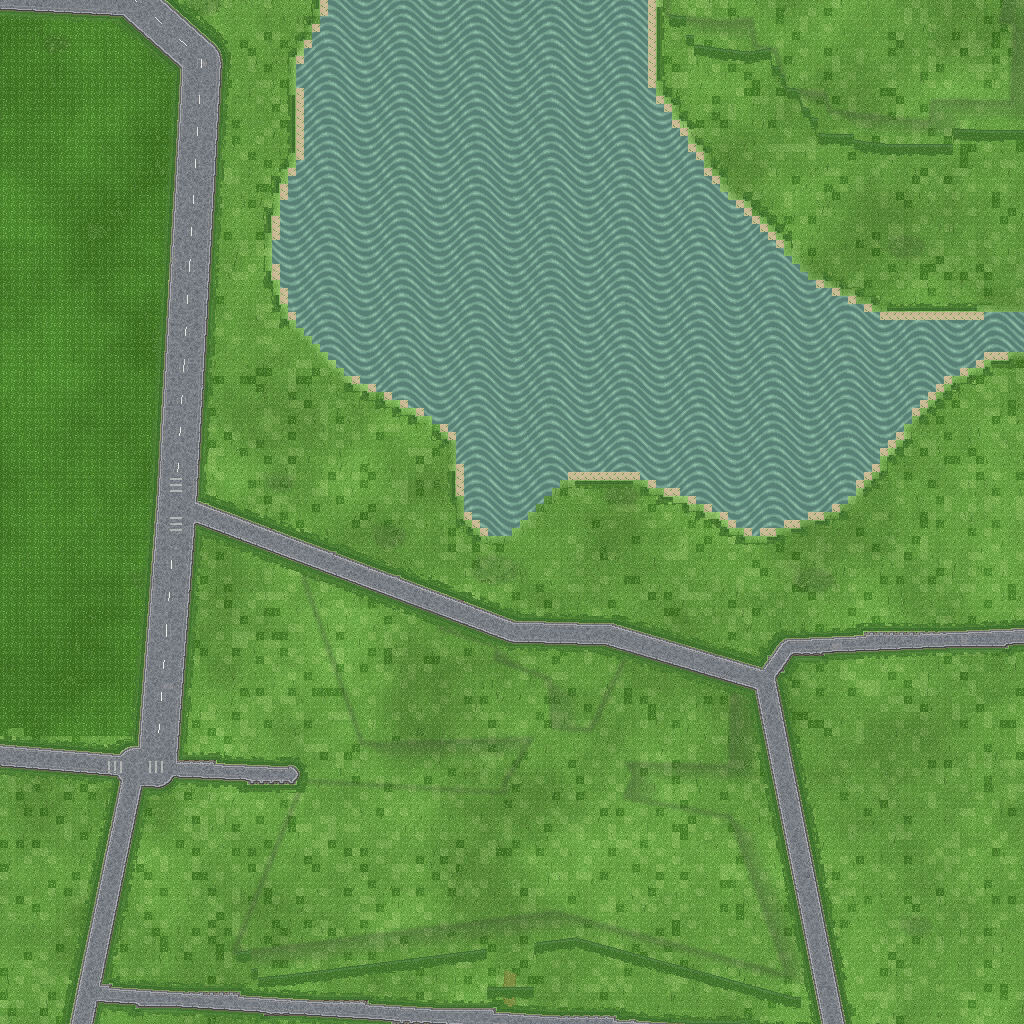
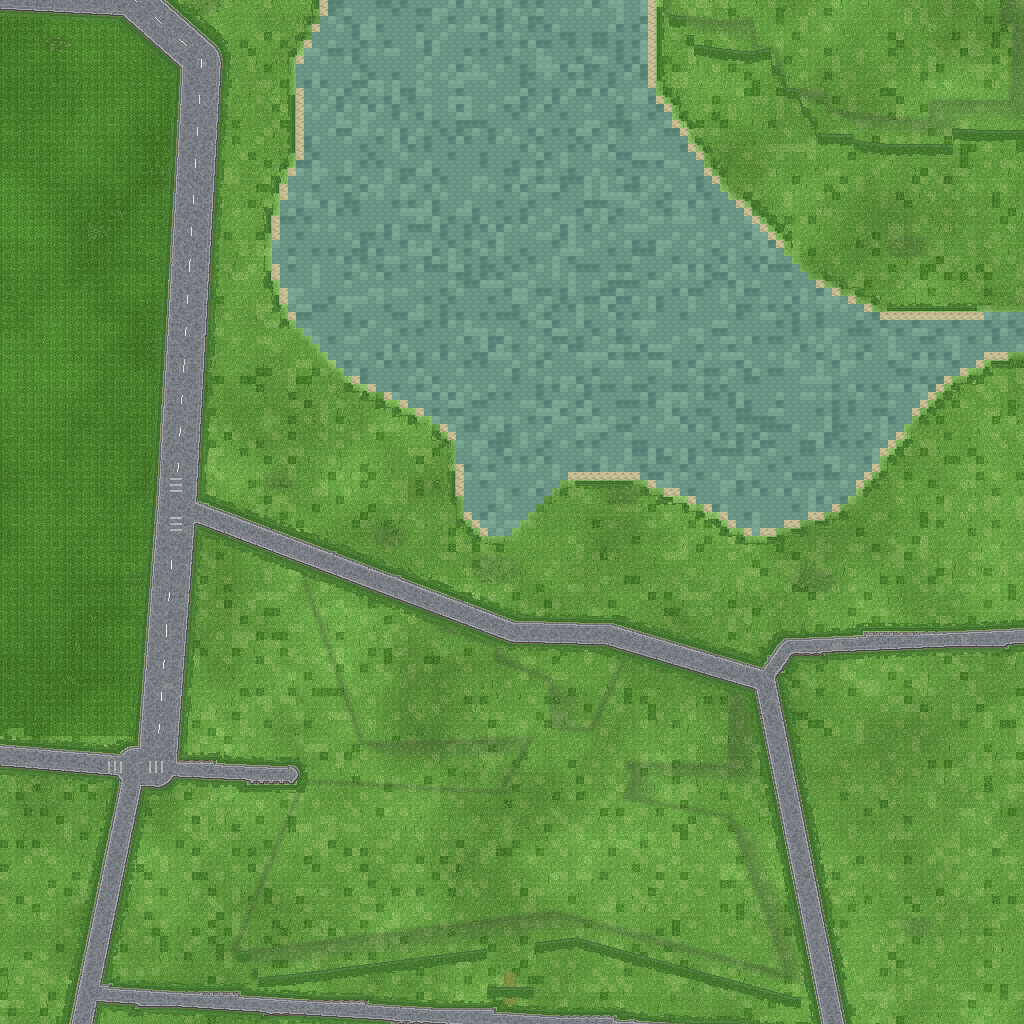
地图：水面退回原始色块，撤掉波纹重排
上一版把湖水的 4 档精确色按横向波纹重新排布（色值集合不变、water_mask
逐像素等价），实机看下来 8px 棋盘被换成一片横纹噪声，比原来的色块更假。

- 删掉 _repaint_water / WATER_ORDER / WATER_LEVELS / WATER_WAVE
- 改为水像素无条件保护：水岸羽化本来会把 2~3px 亮度增量溢进湖里，
  现在 apply 末尾按 water_mask 把原值合回去（899267 个水像素 diff 全 0）
- 草地/路面参数一字未改，28 块里只有 10 块含水的有字节变化

要换水面观感得从 bake_channels / bake_road_edge 的配色改起，
不能事后重排 —— 那 4 个色值同时是判水依据。

Changed region(s): [[0.2812, 0.0, 1.0, 0.5312]]

diff --git a/tools/bake_ground_texture.py b/tools/bake_ground_texture.py
@@ -31,7 +31,6 @@
 import os
 import sys
 from functools import lru_cache
-from math import sin, tau as TAU
 
 from PIL import Image, ImageChops, ImageDraw, ImageFilter, ImageFont, ImageMath, ImageStat
 
@@ -196,46 +195,11 @@ def _nz(mask):
     return D._nz(mask)
 
 
-# ---- C. 水面 ---------------------------------------------------------
-# 湖水是 4 种精确色画出来的 8px 马赛克（bake_channels 认水、道具候选都靠这 4 个值）。
-# 直接改颜色会连锁破坏那些判定，所以这里**一个像素值都不改**，只把那 4 种色按
-# 波纹重新排布：色值集合不变 → water_mask 逐像素等价，但空间上从棋盘变成水波。
-WATER_ORDER = [(88, 128, 116), (104, 146, 132), (120, 164, 146), (142, 188, 164)]
-WATER_LEVELS = (0.46, 0.66, 0.86)   # 分档阈值：大部分落在中深两档，浅色成碎光
-## 波纹：主波是横纹（沿 y 变化），相位被 x 上的慢波推着走 → 波纹自然起伏；
-## 再叠一个幅度很小的斜向高频，只用来打散「同一条纹从东到西都一样亮」。
-## 单频正弦叠加容易算出规则点阵（像鱼鳞），所以第二项幅度必须小。
-WATER_WAVE = (0.118, 0.0135, 1.35, 0.052, -0.031, 0.11)
-
-
-def _repaint_water(im, ox, oy):
-    """把水面 4 色马赛克重排成波纹。返回 (新图, 处理像素数)。"""
-    mask = D.water_mask(im)
-    if _nz(mask) == 0:
-        return im, 0
-    W, H = im.size
-    out = im.copy()
-    po = out.load()
-    pm = mask.load()
-    cols = WATER_ORDER
-    lv = WATER_LEVELS
-    ky, kx, kamp, sx, sy, samp = WATER_WAVE
-    n = 0
-    for y in range(H):
-        wy = oy + y
-        for x in range(W):
-            if pm[x, y] < 128:
-                continue
-            wx = ox + x
-            ph = wy * ky + kamp * sin(wx * kx * TAU)
-            t = 0.5 + 0.30 * sin(ph * TAU) + samp * sin((wx * sx + wy * sy) * TAU)
-            k = 0
-            for th in lv:
-                if t > th:
-                    k += 1
-            po[x, y] = cols[k]
-            n += 1
-    return out, n
+# ---- C. 水面：不动 ---------------------------------------------------
+# 湖水是 4 种精确色画的 8px 色块，bake_channels 判水和道具候选网格都靠这 4 个值。
+# 试过「不换色、只按波纹重排这 4 档」——技术上 water_mask 逐像素等价，但视觉上
+# 8px 棋盘被换成一片横纹噪声，比原来的色块更假（2026-11-15 用户否决）。
+# 水面就保持烘焙链原样，要换观感得从 bake_road_edge / bake_channels 的配色改起。
 
 
 class _Field:
@@ -380,9 +344,12 @@ def apply(im, ox=0, oy=0):
                               out, rw)
 
     out, left, total = _enforce(im, out)
-    n_w = 0
-    if WATER_WAVE is not None:
-        out, n_w = _repaint_water(out, ox, oy)
+    # 水岸羽化会把 2~3px 的增量溢进湖里，水色因此轻微偏移。这里无条件恢复：
+    # 水面（含精确 4 色）一个像素都不许动。
+    wm = D.water_mask(im)
+    n_w = _nz(wm)
+    if n_w:
+        out = Image.composite(im, out, wm)
     return out, {"grass_px": n_g, "road_px": n_r, "water_px": n_w,
                  "reverted_px": total,
                  "size": (W, H), "ox": ox, "oy": oy}
